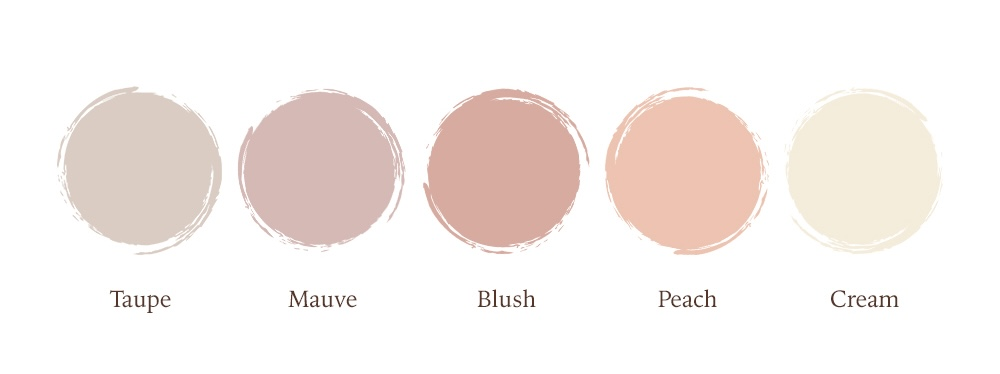
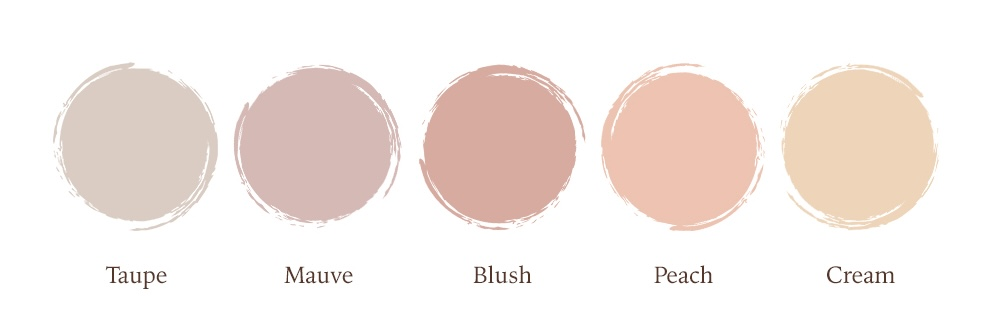
update

diff --git a/app/page.tsx b/app/page.tsx
@@ -177,7 +177,7 @@ Now, they are ready to spend a lifetime of adventures—exploring new places and
           <>
             The ceremony will be held at the{' '}
             <strong>Parish of the Immaculate Heart of Mary, Antipolo City</strong>. It starts at{' '}
-            <strong>4:00 PM</strong>. Please arrive at least <strong>45 minutes early</strong>, as the entourage will be marching in beforehand and to allow time for everyone to get settled.
+            <strong>4:00 PM</strong>. Please arrive at least <strong>40 minutes early</strong>, as the entourage will be marching in beforehand and to allow time for everyone to get settled.
           </>
         ),
         extra: (
@@ -278,9 +278,7 @@ Now, they are ready to spend a lifetime of adventures—exploring new places and
         q: 'Is it required to RSVP on the website?',
         a: (
           <>
-            Yes! Kindly RSVP through the website by the end of February, so we can carefully finalize our
-            preparations. As we’re keeping our celebration intimate, we’re only able to welcome confirmed
-            guests.
+            Yes! Please RSVP through the website the soonest, so we can finalize our preparations. As we’re keeping our celebration intimate, we’re only able to welcome confirmed guests.
           </>
         ),
       },
@@ -495,7 +493,8 @@ Now, they are ready to spend a lifetime of adventures—exploring new places and
 
    {/* ================= ENTOURAGE ================= */}
 <section id="entourage" className={styles.section}>
-  <div className={styles.entourageBoard}>
+  <div className={`${styles.entourageBoard} ${styles.entourageVines}`}>
+
 
     <h2 className={styles.entourageTitle}>ENTOURAGE</h2>
     <p className={styles.entourageSubtitle}>Joined by those closest to our hearts</p>
@@ -568,7 +567,7 @@ Now, they are ready to spend a lifetime of adventures—exploring new places and
       <div>
         <div className={styles.roleSub}>CORD</div>
         <div>Noah Loyola</div>
-        <div>Jhayle Loyola</div>
+        <div>Jhayle Meer</div>
       </div>
     </div>
 

diff --git a/app/Home.module.css b/app/Home.module.css
@@ -1219,3 +1219,87 @@
 }
 
 
+/* ================= ENTOURAGE VINES (INSIDE + FULL OPACITY) ================= */
+
+.entourageVines {
+  position: relative;
+  overflow: hidden;
+
+  /* tighter padding so vines sit closer to content */
+  padding-left: calc(20px + clamp(24px, 5vw, 80px));
+  padding-right: calc(20px + clamp(24px, 5vw, 80px));
+}
+
+/* LEFT vine */
+.entourageVines::before {
+  content: "";
+  position: absolute;
+  top: 16px;
+  left: 0;
+  height: calc(100% - 32px);
+
+  width: clamp(110px, 14vw, 180px);
+
+  background: url("/vines/entourage-left.png") no-repeat left top;
+  background-size: contain;
+
+  opacity: 1;                /* FULL opacity */
+  pointer-events: none;
+  z-index: 0;
+
+  /* bring it inside */
+  transform: translateX(-10%);
+}
+
+/* RIGHT vine */
+.entourageVines::after {
+  content: "";
+  position: absolute;
+  top: 16px;
+  right: 0;
+  height: calc(100% - 32px);
+
+  width: clamp(110px, 14vw, 180px);
+
+  background: url("/vines/entourage-right.png") no-repeat right top;
+  background-size: contain;
+
+  opacity: 1;                /* FULL opacity */
+  pointer-events: none;
+  z-index: 0;
+
+  transform: translateX(10%);
+}
+
+/* keep content above vines */
+.entourageVines > * {
+  position: relative;
+  z-index: 1;
+}
+
+/* Tablet */
+@media (max-width: 1024px) {
+  .entourageVines {
+    padding-left: calc(20px + clamp(20px, 6vw, 60px));
+    padding-right: calc(20px + clamp(20px, 6vw, 60px));
+  }
+
+  .entourageVines::before,
+  .entourageVines::after {
+    width: clamp(100px, 18vw, 150px);
+  }
+}
+
+/* Mobile */
+@media (max-width: 640px) {
+  .entourageVines {
+    padding-left: 20px;
+    padding-right: 20px;
+  }
+
+  .entourageVines::before,
+  .entourageVines::after {
+    width: 120px;
+    transform: translateX(0); /* fully inside on mobile */
+  }
+}
